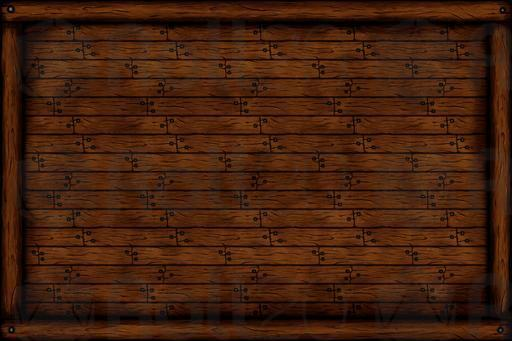
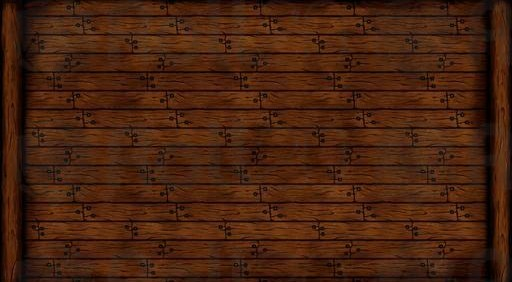
made a little pretty

diff --git a/app/app.vue b/app/app.vue
@@ -1,19 +1,103 @@
+<!--"npm run dev" to run page-->
 <style>
 @import url('https://fonts.googleapis.com/css2?family=Eagle+Lake&display=swap');
 .rule {
   font-family: "Eagle Lake", serif;
   font-weight: 400;
   font-style: normal;
+  font-size: 50px;
   color: red;
   text-align: center;
   background-image: url("~/img/oldPaper.jpg");
   background-repeat: no-repeat;
-  background-attachment: fixed;
   background-size: 100% 100%;
+  max-width: 400px;
+  position: fixed;
+
+}
+.main_board {
+  background-image: url("~/img/doom_background.jpg");
+  background-repeat: repeat-y;
+  background-size: 1725px;
+  background-position: center center;
+  margin: 0;
+  height: 100%;
+  overflow-y: auto;
+  position: relative;
+  padding: 20px;
+  background-color: #552206;
+}
+.posted {
+  text-align: left;
+  font-size: 35px;
+  background-image: url("~/img/posted_paper.png");
+  background-repeat: repeat-y;
+  background-size: 50% 100%;
+  padding: 15px 25%;
+  background-position: center center;
+  overflow-y: auto;
+  position: relative;
+}
+.posting{
+  font-weight: 400;
+  font-style: normal;
+  font-size: 50px;
+  color: red;
+  text-align: center;
+  background-image: url("~/img/post_paper.png");
+  background-repeat: no-repeat;
+  background-size: 100% 100%;
+  max-width: 400px;
+  position: fixed;
 }
 </style>
+
 <template>
-  <div>
-    <h1 class="rule">Test rule</h1>
-  </div>
+  <header>
+    <h1 class="rule"> Test rule Test rule Test rule Test rule Test rule Test rule Test rule Test rule Test rule Test rule Test rule</h1>
+  </header>
+  <body class="main_board">
+  <p class="posted">
+    Here is a concise post crafted to be exactly two hundred characters long, giving you a clear, simple message that is useful, readable, and neatly contained within the limit Enjoy this extra note here!  </p>
+  <p class="posted">
+    test
+  </p>
+  <p class="posted">
+    test
+  </p><p class="posted">
+    test
+  </p>
+  <p class="posted">
+    test
+  </p>
+  <p class="posted">
+    test
+  </p><p class="posted">
+    test
+  </p><p class="posted">
+    test
+  </p><p class="posted">
+    test
+  </p><p class="posted">
+    test
+  </p><p class="posted">
+    test
+  </p><p class="posted">
+    test
+  </p><p class="posted">
+    test
+  </p><p class="posted">
+    test
+  </p><p class="posted">
+    test
+  </p><p class="posted">
+    test
+  </p>
+  </body>
+  <footer>
+    <p class="posting">    Here is a concise post crafted to be exactly two hundred characters long, giving you a clear, simple message that is useful, readable, and neatly contained within the limit Enjoy this extra note here!  </p>
+
+  </footer>
 </template>
+<script setup lang="ts">
+</script>
